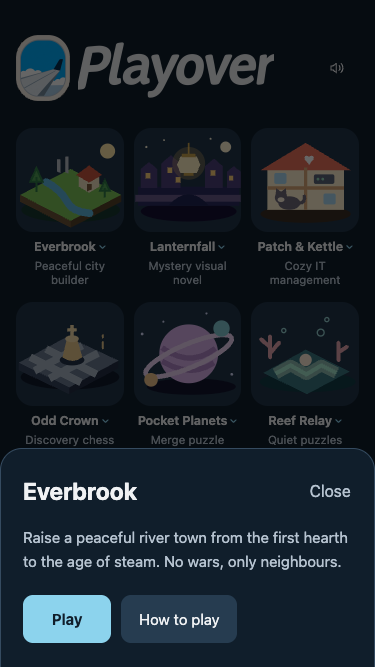
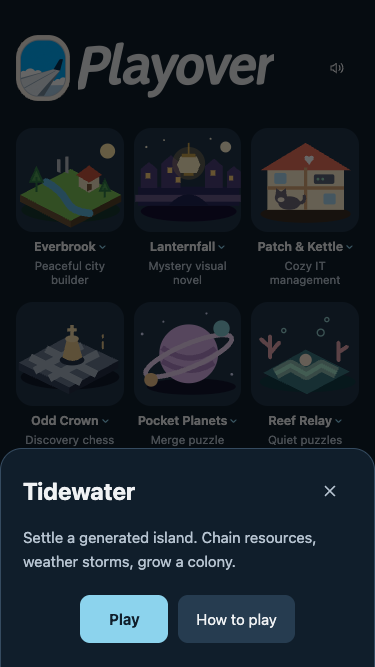
Center Home sheet actions and use an accessible X close button

Changed region(s): [[0.0587, 0.7796, 0.9387, 0.9895], [0.0587, 0.7196, 0.3813, 0.7496], [0.8213, 0.7196, 0.9387, 0.7496]]

diff --git a/src/shell/home.css b/src/shell/home.css
@@ -28,8 +28,9 @@
 .po-sheet-head { display:flex; align-items:center; justify-content:space-between; gap:12px; }
 .po-sheet h2 { font-size:24px; line-height:1.2; margin:0; }
 .po-sheet p { font-size:15px; line-height:1.6; color:#b6c3d0; margin:12px 0 22px; }
-.po-close { min-width:44px; min-height:44px; color:#b6c3d0; }
-.po-actions { display:flex; flex-wrap:wrap; gap:10px; }
+.po-close { display:grid; place-items:center; width:44px; height:44px; flex-shrink:0; color:#b6c3d0; }
+.po-close img { width:18px; height:18px; }
+.po-actions { display:flex; flex-wrap:wrap; justify-content:center; gap:10px; }
 .po-action { min-height:48px; min-width:88px; padding:12px 18px; background:#263c50; border-radius:10px; font-size:15px; }
 .po-primary { background:#8cd3ed; color:#101e2b; font-weight:650; }
 .fg-guide.po-guide { --g-bg:#101e2b; --g-panel:#203448; --g-ink:#f0f2f4; --g-muted:#b6c3d0; --g-accent:#8cd3ed; --g-line:#354b60; }

diff --git a/src/shell/home.js b/src/shell/home.js
@@ -70,7 +70,10 @@ export function createInfo(home, game, { onClose, onPlay, onGuide }) {
   const title = el('h2', '', game.title);
   title.id = 'po-info-title';
   sheet.setAttribute('aria-labelledby', title.id);
-  const close = button('Close', 'po-close', onClose);
+  const close = button('', 'po-close', onClose);
+  close.setAttribute('aria-label', 'Close');
+  close.title = 'Close';
+  close.append(image('close.svg', ''));
   header.append(title, close);
   const actions = el('div', 'po-actions');
   const guideButton = button('How to play', 'po-action', onGuide);

diff --git a/HANDOFF.md b/HANDOFF.md
@@ -13,23 +13,23 @@
 - `docs/wishlist.md` — deferred game features; keep them outside this Home task.
 
 ## Plan / Spec
-`docs/playover-home/IMPLEMENTATION.md`. Implementation and browser acceptance are complete. Physical iPhone acceptance remains unverified. Await owner review and explicit commit approval.
+`docs/playover-home/IMPLEMENTATION.md`. Reviewed implementation is committed. Physical iPhone acceptance remains unverified. The information-sheet follow-up is approved for commit and merge into main.
 
 ## Branch / Worktree
 - `codex/playover-home-approved` at `/Users/irispepa/.codex/worktrees/playover-home-approved/flight-games`.
-- Fresh baseline: `acb2bdd`. HEAD is still that baseline; all implementation changes are uncommitted.
+- Fresh baseline: `acb2bdd`; approved implementation committed as `9d06cb4` at the owner's request. Nothing pushed.
 - Owner-supplied tutorial commit `3235cf2` was applied as working-tree changes without making a commit. Its 35 code/document paths (including deletions) match the commit exactly; its HANDOFF changes were superseded by this checkout's notes.
 - The rejected `codex/playover-home-design` implementation was not reused. Other worktrees were not changed.
 
 ## Status
-Approved Cabin blue Home, branding, information sheets, history/focus/scroll, loading cancellation/retry and global sound are implemented. All nine shared guides and More tips work from Home and in-game, including Helpdesk's title screen. Nothing has been committed, pushed or deployed.
+Approved Cabin blue Home, branding, information sheets, history/focus/scroll, loading cancellation/retry and global sound are committed. All nine shared guides and More tips work from Home and in-game, including Helpdesk's title screen. Nothing pushed or deployed. Follow-up: center information-sheet actions and replace visible Close text with the existing X icon pattern, a 44×44 target and accessible Close label. The owner approved committing these follow-up edits and merging into main.
 
 ## How to run it
 Existing dependencies are linked from main's node_modules; no package was added.
 
 - `npm run dev -- --host 127.0.0.1 --port 5327 --strictPort` — Home development preview.
 - `npm test` — all nine simulation suites; passes after tutorial integration.
-- `npm run build` — passes; production cache contains 59 entries, about 2.44 MiB.
+- `npm run build` — passes; current production cache contains 60 entries, about 2.44 MiB, including the X icon.
 - `npm run preview -- --host 127.0.0.1 --port 5328 --strictPort` — production preview (running).
 - `PLAYOVER_URL=http://127.0.0.1:5328/ node scripts/check-home.mjs` — all-nine Home guides, More tips, navigation, responsive layout, save preservation and errors.
 - `node scripts/check-in-game-guides.mjs` — all-nine in-game guide and More tips entries.
@@ -40,12 +40,13 @@ Existing dependencies are linked from main's node_modules; no package was added.
 Browser scripts accept `CHROME_PATH`, `PLAYOVER_URL` and `PLAYOVER_EVIDENCE`. Evidence was captured at 375×667, 390×844, 430×932, 375×500 and 1280×900, plus safe areas and 200% text.
 
 ## Next steps
-1. Owner reviews the live preview and evidence. Ask before committing or pushing; no Git approval has been granted yet.
+1. Merge the approved Home branch into main; the owner explicitly authorized the follow-up commit and merge. Ask before pushing; no push is authorized.
 2. Test on a physical iPhone, including installation, safe areas, touch feel and airplane-mode reopening, before claiming device acceptance.
 3. Keep broader game review, hosting and the remaining PWA rendering/deployment changes separate unless authorized.
 
 ## Key decisions
 - Artwork opens the existing game entry immediately; name/genre/chevron opens its information sheet. No Home save resets or best-score badges.
+- Information-sheet Play/How to play actions are centered; title and descriptive text remain left aligned. Dismiss with a top-right X, matching most game sheets; guides retain Skip/Done and navigation retains Back.
 - Home guide adapters read each game's own slides and More tips. They do not start games or write guide-completion flags; temporary thumbnail renderers are disposed.
 - IDs, `?game=<id>`, the `flightgames:` storage prefix and save formats are preserved.
 - Approved supplied raster letterforms and cleaned window are bundled offline. Home uses the transparent window; app icons use navy backing. The approved asset brief supersedes older code-only art notes.

diff --git a/design-qa.md b/design-qa.md
@@ -29,6 +29,7 @@ Visual fidelity and browser interaction acceptance pass. The owner-supplied stab
 2. Overlay inspection found native dialog max-width insetting the information sheet and shared guide CSS overriding Home's blue accent (P2). Set the sheet's explicit max-width and increased Home guide theme specificity. Recaptured `information-sheet.png` and `home-guide.png`; the sheet is now 375px wide and the guide action is #8cd3ed. Targeted browser checks pass.
 3. Post-fix visual comparison finds no remaining actionable visual P0/P1/P2 mismatch.
 4. The tutorial integration dependency was resolved with stable commit `3235cf2`. Full all-nine Home, in-game and offline guide checks now pass, including More tips and unchanged saved state. Fresh guide screenshots are included in the evidence folder. Home geometry is unchanged and the new production Home capture still matches the source comparison.
+5. After committing the reviewed implementation as `9d06cb4`, the owner requested centered information-sheet actions and asked about dismissal conventions. Follow-up centers Play/How to play and uses the existing game-sheet X shape in a 44×44 target with an accessible Close label. The title and prose remain left aligned. Updated sheet capture: `docs/playover-home/evidence/information-sheet.png`. The owner approved the follow-up for commit and merge.
 
 ## Findings
 
@@ -37,7 +38,7 @@ Visual fidelity and browser interaction acceptance pass. The owner-supplied stab
 ## Verification
 
 - `npm test`: all nine simulation suites pass.
-- `npm run build`: passes; integrated build precaches 59 entries, approximately 2.44 MiB, including all game/guide chunks and branding.
+- `npm run build`: passes; current build precaches 60 entries, approximately 2.44 MiB, including all game/guide chunks, branding and the sheet X icon.
 - Normal production browser flow: all nine artwork and sheet Play paths pass; registry descriptions, Back/focus restoration, deep-link exit, responsive dimensions, safe-area padding and 200% text pass.
 - All nine Home guides: close/finish returns to the same information sheet, keyboard and simulated horizontal swipes pass, reduced motion passes, and all storage remains unchanged. More tips opens from the last card, returns to the main guide and closes back to the information sheet without save/first-run writes.
 - All nine in-game guide entries: shared guide and More tips open and return to the same game. Includes Helpdesk's new title-screen entry. No console or runtime errors.
@@ -47,10 +48,11 @@ Visual fidelity and browser interaction acceptance pass. The owner-supplied stab
 - Installed SW update waits while a game is open; returning Home applies it with exactly one reload, using a disposable production copy.
 - Normal-flow console errors, uncaught errors and external requests: none. Deliberate failure-test network/console errors are expected and isolated.
 - Targeted final checks: full-width sheet, guide accent, short-viewport scroll restoration, browser Forward and package version pass.
+- Post-commit sheet polish: centered action geometry and 44×44 accessible X pass at all five viewport sizes. Close/focus restoration, guide return, Escape and the cached X asset offline pass; no console/runtime errors.
 
 ## Remaining acceptance
 
 1. Review on a physical iPhone before claiming installed-mode/device acceptance. Browser emulation and synthetic swipes do not establish that.
-2. Ask before committing or pushing. No commit, push or deployment has occurred.
+2. Reviewed implementation committed as `9d06cb4`. The owner approved committing the sheet polish and merging into main; ask before pushing. Nothing pushed or deployed.
 
 final result: passed

diff --git a/docs/playover-home/README.md b/docs/playover-home/README.md
@@ -7,9 +7,9 @@ Authoritative design: [IMPLEMENTATION.md](IMPLEMENTATION.md) and [375×667 mocku
 - Fresh worktree: `/Users/irispepa/.codex/worktrees/playover-home-approved/flight-games`.
 - Branch: `codex/playover-home-approved`, based on clean main `acb2bdd`.
 - The rejected `codex/playover-home-design` checkout was not read, copied, merged or changed.
-- Tutorial source: owner-supplied stable commit `3235cf2`, directly based on `acb2bdd`. Its 35 code/document files (including deletions) were applied exactly; this worktree's `HANDOFF.md` was preserved and updated separately. This includes standardized guides and optional More tips for all nine games, Helpdesk's title guide entry and Bastion's data-driven tower reference. No active snapshot was copied and no new commit was created.
+- Tutorial source: owner-supplied stable commit `3235cf2`, directly based on `acb2bdd`. Its 35 code/document files (including deletions) were applied exactly; this worktree's `HANDOFF.md` was preserved and updated separately. This includes standardized guides and optional More tips for all nine games, Helpdesk's title guide entry and Bastion's data-driven tower reference. No active snapshot was copied; importing the tutorial patch did not create a separate commit.
 - PWA owner: clean `e918e1b` in `/Users/irispepa/Projects/flight-games/.claude/worktrees/playover-pwa-conversion-9dbb76`, separate from main. Home adapts its committed shell update/persistent-storage policy and prompt registration. Its deployment workflow and rendering changes are outside this patch. That commit does not modify the icons, so there is no existing icon-file conflict.
-- No commits, pushes or deployment were made.
+- Reviewed implementation was committed as `9d06cb4` at the owner's request. Nothing pushed or deployed. Subsequent information-sheet action centering and X-button polish were approved for commit and merge.
 
 ## Implementation
 
@@ -48,5 +48,5 @@ The tutorial commit and all nine Home adapters are integrated. Tidewater and Eve
 
 Simulation tests, build, all-nine Home/in-game guide checks and cold offline guide/game checks pass. Guide close/finish and More tips preserve the Home information-sheet origin and all saved state. See `design-qa.md` for evidence and the remaining physical-device limitation.
 
-1. Review the implementation and approve a commit if desired. Nothing is committed, pushed or deployed.
+1. The owner approved the follow-up sheet polish for commit and merge; ask before pushing. The reviewed implementation is already committed as `9d06cb4`; nothing pushed or deployed.
 2. Physical iPhone/installed-mode verification still requires the owner's device. Browser emulation does not establish device acceptance.
